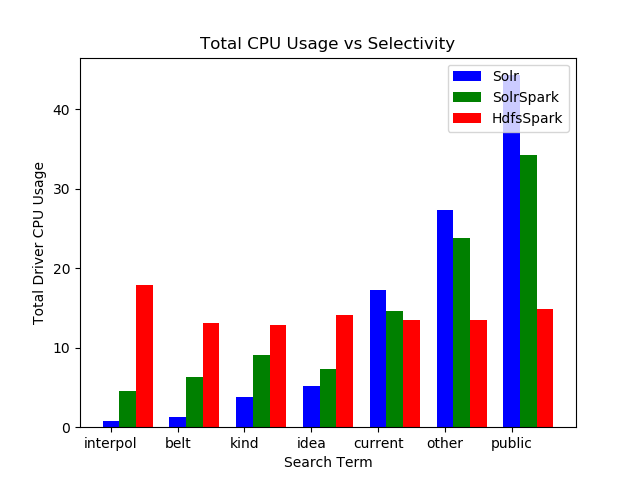
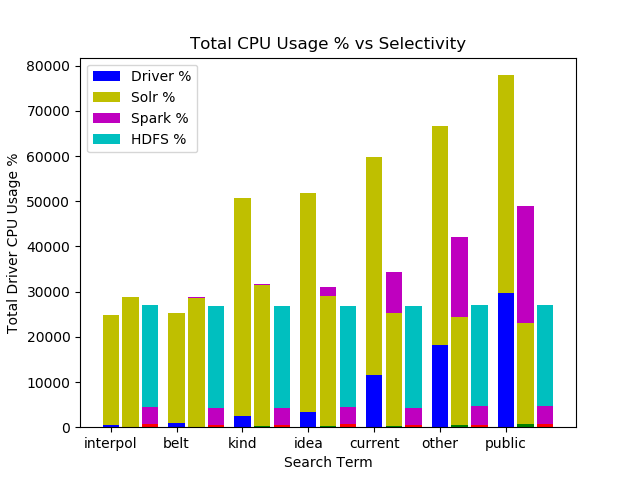
Add stacked graphs

diff --git a/report/resource_usage.py b/report/resource_usage.py
@@ -296,93 +296,110 @@ def draw_bar_terms():
                 term_exps[term][exp_type]['cpu_usage'] = np.pad(term_exps[term][exp_type]['cpu_usage'], (0, pad_size), 'constant')
                 term_exps[term][exp_type]['mem_usage'] = np.pad(term_exps[term][exp_type]['mem_usage'], (0, pad_size), 'constant')
 
-            # spark_log_length = len(term_exps[term][exp_type]['spark_cpu_usage'])
-            #
-            # if spark_log_length < max_driver_cpu_usage_len:
-            #     # pad remaining indices with zero
-            #     pad_size = max_driver_cpu_usage_len - spark_log_length
-            #     term_exps[term][exp_type]['spark_cpu_usage'] = np.pad(term_exps[term][exp_type]['spark_cpu_usage'], (0, pad_size), 'constant')
-            #     term_exps[term][exp_type]['spark_mem_usage'] = np.pad(term_exps[term][exp_type]['spark_mem_usage'], (0, pad_size), 'constant')
-            #
-            # solr_log_length = len(term_exps[term][exp_type]['solr_cpu_usage'])
-            #
-            # if solr_log_length < max_driver_cpu_usage_len:
-            #     # center align and pad with first/last value
-            #     pad_size = max_driver_cpu_usage_len - solr_log_length
-            #
-            #     left_pad = math.ceil(pad_size/2)
-            #     right_pad = pad_size - left_pad
-            #
-            #     term_exps[term][exp_type]['solr_cpu_usage'] = np.pad(term_exps[term][exp_type]['solr_cpu_usage'], (left_pad, right_pad), 'edge')
-            #     term_exps[term][exp_type]['solr_mem_usage'] = np.pad(term_exps[term][exp_type]['solr_mem_usage'], (left_pad, right_pad), 'edge')
-            #
-            # hdfs_log_length = len(term_exps[term][exp_type]['hdfs_cpu_usage'])
-            #
-            # if hdfs_log_length < max_driver_cpu_usage_len:
-            #     # center align and pad with first/last value
-            #     pad_size = max_driver_cpu_usage_len - hdfs_log_length
-            #
-            #     left_pad = math.ceil(pad_size/2)
-            #     right_pad = pad_size - left_pad
-            #
-            #     term_exps[term][exp_type]['hdfs_cpu_usage'] = np.pad(term_exps[term][exp_type]['hdfs_cpu_usage'], (left_pad, right_pad), 'edge')
-            #     term_exps[term][exp_type]['hdfs_mem_usage'] = np.pad(term_exps[term][exp_type]['hdfs_mem_usage'], (left_pad, right_pad), 'edge')
+            spark_log_length = len(term_exps[term][exp_type]['spark_cpu_usage'])
+
+            if spark_log_length < max_driver_cpu_usage_len:
+                # pad remaining indices with zero
+                pad_size = max_driver_cpu_usage_len - spark_log_length
+                term_exps[term][exp_type]['spark_cpu_usage'] = np.pad(term_exps[term][exp_type]['spark_cpu_usage'], (0, pad_size), 'constant')
+                term_exps[term][exp_type]['spark_mem_usage'] = np.pad(term_exps[term][exp_type]['spark_mem_usage'], (0, pad_size), 'constant')
+
+            solr_log_length = len(term_exps[term][exp_type]['solr_cpu_usage'])
+
+            if solr_log_length < max_driver_cpu_usage_len:
+                # center align and pad with first/last value
+                pad_size = max_driver_cpu_usage_len - solr_log_length
+
+                left_pad = math.ceil(pad_size/2)
+                right_pad = pad_size - left_pad
+
+                term_exps[term][exp_type]['solr_cpu_usage'] = np.pad(term_exps[term][exp_type]['solr_cpu_usage'], (left_pad, right_pad), 'edge')
+                term_exps[term][exp_type]['solr_mem_usage'] = np.pad(term_exps[term][exp_type]['solr_mem_usage'], (left_pad, right_pad), 'edge')
+
+            hdfs_log_length = len(term_exps[term][exp_type]['hdfs_cpu_usage'])
+
+            if hdfs_log_length < max_driver_cpu_usage_len:
+                # center align and pad with first/last value
+                pad_size = max_driver_cpu_usage_len - hdfs_log_length
+
+                left_pad = math.ceil(pad_size/2)
+                right_pad = pad_size - left_pad
+
+                term_exps[term][exp_type]['hdfs_cpu_usage'] = np.pad(term_exps[term][exp_type]['hdfs_cpu_usage'], (left_pad, right_pad), 'edge')
+                term_exps[term][exp_type]['hdfs_mem_usage'] = np.pad(term_exps[term][exp_type]['hdfs_mem_usage'], (left_pad, right_pad), 'edge')
 
     # cpu
     exp1_driver_cpu_usage = np.sum([term_exps[term]['solr']['cpu_usage'] for term in terms], axis=1)
-    exp2_driver_cpu_usage = np.sum([term_exps[term]['spark_solr']['cpu_usage'] for term in terms], axis=1)
-    exp3_driver_cpu_usage = np.sum([term_exps[term]['hdfs_spark']['cpu_usage'] for term in terms], axis=1)
+    exp1_solr_cpu_usage = np.sum([term_exps[term]['solr']['solr_cpu_usage'] for term in terms], axis=1)
 
-    exp1_driver_cpu_usage = exp1_driver_cpu_usage / np.sum(exp1_driver_cpu_usage) * 100
-    exp2_driver_cpu_usage = exp2_driver_cpu_usage / np.sum(exp2_driver_cpu_usage) * 100
-    exp3_driver_cpu_usage = exp3_driver_cpu_usage / np.sum(exp3_driver_cpu_usage) * 100
+    exp2_driver_cpu_usage = np.sum([term_exps[term]['spark_solr']['cpu_usage'] for term in terms], axis=1)
+    exp2_solr_cpu_usage = np.sum([term_exps[term]['spark_solr']['solr_cpu_usage'] for term in terms], axis=1)
+    exp2_spark_cpu_usage = np.sum([term_exps[term]['spark_solr']['spark_cpu_usage'] for term in terms], axis=1)
+
+    exp3_driver_cpu_usage = np.sum([term_exps[term]['hdfs_spark']['cpu_usage'] for term in terms], axis=1)
+    exp3_spark_cpu_usage = np.sum([term_exps[term]['hdfs_spark']['spark_cpu_usage'] for term in terms], axis=1)
+    exp3_hdfs_cpu_usage = np.sum([term_exps[term]['hdfs_spark']['hdfs_cpu_usage'] for term in terms], axis=1)
+
+    ###
+
+    # memory
+    exp1_driver_mem_usage = np.sum([term_exps[term]['solr']['mem_usage'] for term in terms], axis=1)
+    exp1_solr_mem_usage = np.sum([term_exps[term]['solr']['solr_mem_usage'] for term in terms], axis=1)
+
+    exp2_driver_mem_usage = np.sum([term_exps[term]['spark_solr']['mem_usage'] for term in terms], axis=1)
+    exp2_solr_mem_usage = np.sum([term_exps[term]['spark_solr']['solr_mem_usage'] for term in terms], axis=1)
+    exp2_spark_mem_usage = np.sum([term_exps[term]['spark_solr']['spark_mem_usage'] for term in terms], axis=1)
+
+    exp3_driver_mem_usage = np.sum([term_exps[term]['hdfs_spark']['mem_usage'] for term in terms], axis=1)
+    exp3_spark_mem_usage = np.sum([term_exps[term]['hdfs_spark']['spark_mem_usage'] for term in terms], axis=1)
+    exp3_hdfs_mem_usage = np.sum([term_exps[term]['hdfs_spark']['hdfs_mem_usage'] for term in terms], axis=1)
 
     X = np.arange(len(terms))
 
-    plt.title("Total CPU Usage vs Selectivity")
+    plt.title("Total CPU Usage % vs Selectivity")
 
-    # driver totals
-    plt.bar(X, exp1_driver_cpu_usage, color='b', width=0.25)
+    # exp1
+    plt1 = plt.bar(X, exp1_driver_cpu_usage, color='b', width=0.25)
+    plt2 = plt.bar(X, exp1_solr_cpu_usage, bottom=exp1_driver_cpu_usage, color='y', width=0.25)
 
-    # solr totals
-    plt.bar(X + 0.25, exp2_driver_cpu_usage, color='g', width=0.25)
+    # exp2
+    plt.bar(X + 0.30, exp2_driver_cpu_usage, color='g', width=0.25)
+    plt.bar(X + 0.30, exp2_solr_cpu_usage, bottom=exp2_driver_cpu_usage, color='y', width=0.25)
+    plt.bar(X + 0.30, exp2_spark_cpu_usage, bottom=exp2_driver_cpu_usage + exp2_solr_cpu_usage, color='m', width=0.25)
 
-    # spark totals
-    plt.bar(X + 0.50, exp3_driver_cpu_usage, color='r', width=0.25)
+    # exp3
+    plt.bar(X + 0.60, exp3_driver_cpu_usage, color='r', width=0.25)
+    plt3 = plt.bar(X + 0.60, exp3_spark_cpu_usage, bottom=exp3_driver_cpu_usage, color='m', width=0.25)
+    plt4 = plt.bar(X + 0.60, exp3_hdfs_cpu_usage, bottom=exp3_driver_cpu_usage + exp3_spark_cpu_usage, color='c', width=0.25)
 
     plt.xticks(X, terms)
     plt.xlabel('Search Term')
-    plt.ylabel('Total Driver CPU Usage')
-    plt.legend(['Solr', 'SolrSpark', 'HdfsSpark'], loc='upper right')
+    plt.ylabel('Total Driver CPU Usage %')
+    plt.legend((plt1[0], plt2[0], plt3[0], plt4[0]), ('Driver %', 'Solr %', 'Spark %', 'HDFS %'))
 
     plt.savefig(os.path.join(graphs_dir, "cpu_selectivity.png"))
 
     # memory
-    exp1_driver_mem_usage = np.sum([term_exps[term]['solr']['mem_usage'] for term in terms], axis=1)
-    exp2_driver_mem_usage = np.sum([term_exps[term]['spark_solr']['mem_usage'] for term in terms], axis=1)
-    exp3_driver_mem_usage = np.sum([term_exps[term]['hdfs_spark']['mem_usage'] for term in terms], axis=1)
+    plt.title("Total Mem Usage % vs Selectivity")
 
-    exp1_driver_mem_usage = exp1_driver_mem_usage / np.sum(exp1_driver_mem_usage) * 100
-    exp2_driver_mem_usage = exp2_driver_mem_usage / np.sum(exp2_driver_mem_usage) * 100
-    exp3_driver_mem_usage = exp3_driver_mem_usage / np.sum(exp3_driver_mem_usage) * 100
+    # exp1
+    plt1 = plt.bar(X, exp1_driver_mem_usage, color='b', width=0.25)
+    plt2 = plt.bar(X, exp1_solr_mem_usage, bottom=exp1_driver_mem_usage, color='y', width=0.25)
 
-    X = np.arange(len(terms))
+    # exp2
+    plt.bar(X + 0.30, exp2_driver_mem_usage, color='g', width=0.25)
+    plt.bar(X + 0.30, exp2_solr_mem_usage, bottom=exp2_driver_mem_usage, color='y', width=0.25)
+    plt.bar(X + 0.30, exp2_spark_mem_usage, bottom=exp2_driver_mem_usage + exp2_solr_mem_usage, color='m', width=0.25)
 
-    plt.title("Total Memory Usage vs Selectivity")
-
-    # driver totals
-    plt.bar(X, exp1_driver_mem_usage, color='b', width=0.25)
-
-    # solr totals
-    plt.bar(X + 0.25, exp2_driver_mem_usage, color='g', width=0.25)
-
-    # spark totals
-    plt.bar(X + 0.50, exp3_driver_mem_usage, color='r', width=0.25)
+    # exp3
+    plt.bar(X + 0.60, exp3_driver_mem_usage, color='r', width=0.25)
+    plt3 = plt.bar(X + 0.60, exp3_spark_mem_usage, bottom=exp3_driver_mem_usage, color='m', width=0.25)
+    plt4 = plt.bar(X + 0.60, exp3_hdfs_mem_usage, bottom=exp3_driver_mem_usage + exp3_spark_mem_usage, color='c', width=0.25)
 
     plt.xticks(X, terms)
     plt.xlabel('Search Term')
-    plt.ylabel('Total Driver Memory Usage')
-    plt.legend(['Solr', 'SolrSpark', 'HdfsSpark'], loc='upper right')
+    plt.ylabel('Total Driver Memory Usag %')
+    plt.legend((plt1[0], plt2[0], plt3[0], plt4[0]), ('Driver %', 'Solr %', 'Spark %', 'HDFS %'))
 
     plt.savefig(os.path.join(graphs_dir, "mem_selectivity.png"))
 
